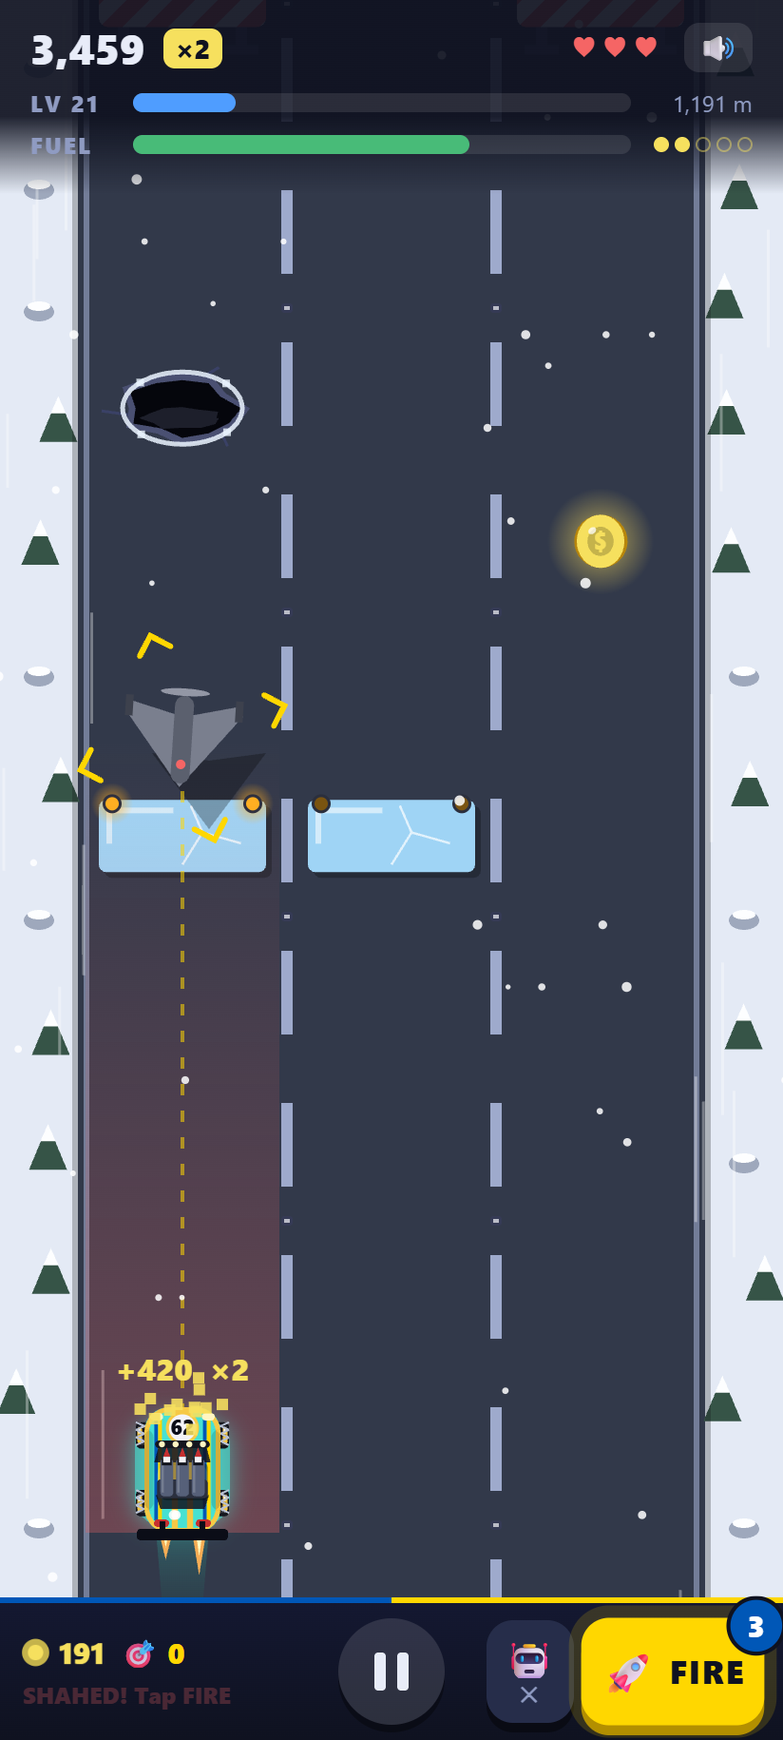
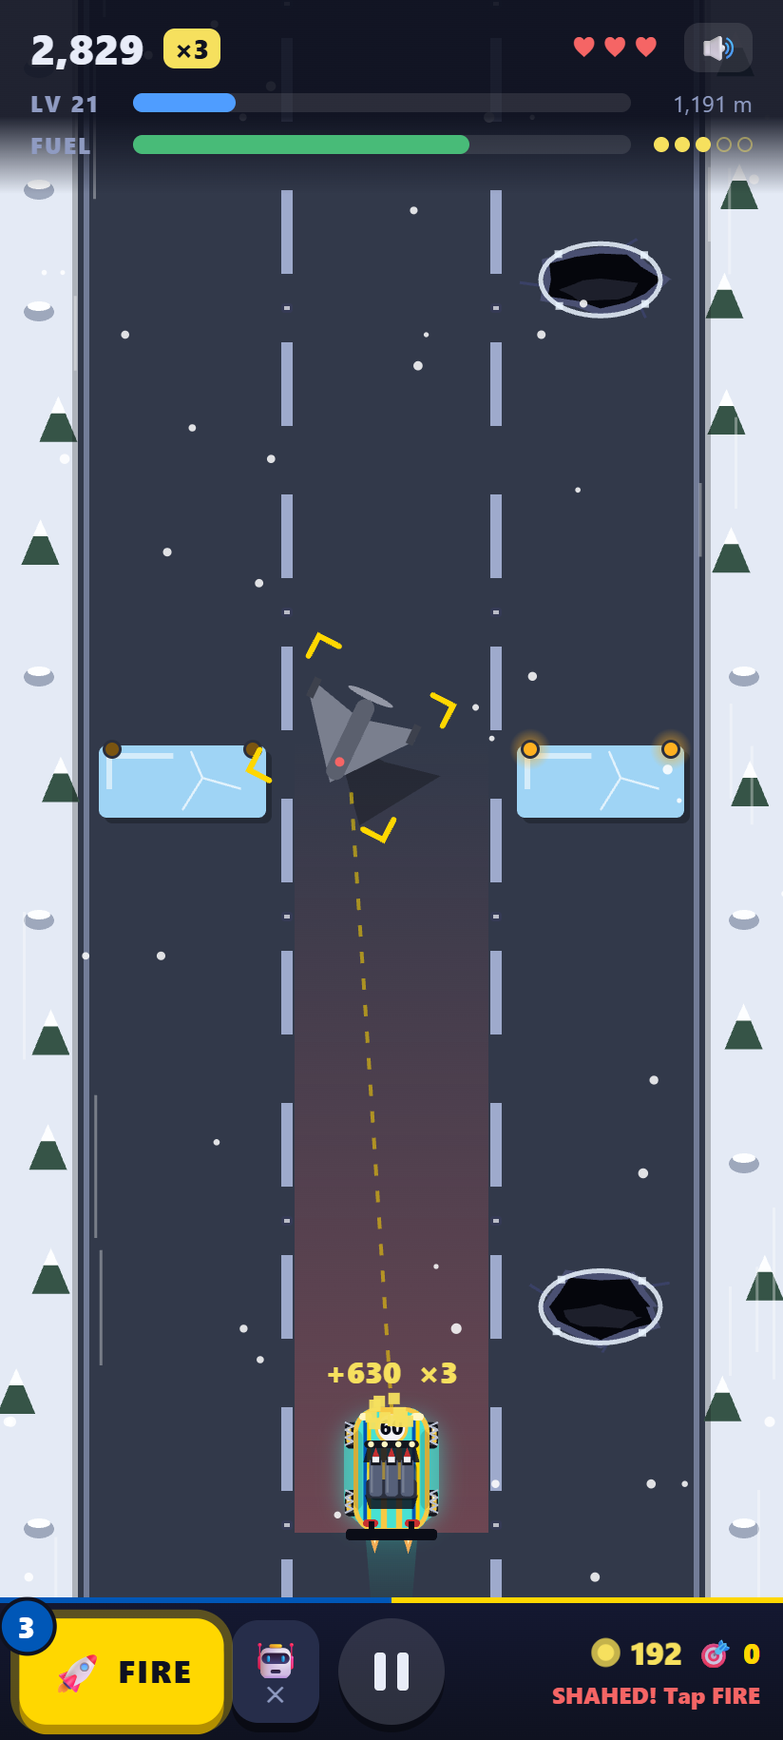
FIRE on the left by default, Settings drop-down in the pause menu
Tester feedback: steering is a tap on the lane, usually with the right
thumb, so FIRE in the bottom right forces one thumb to do both jobs.

- The launch bar mirrors: FIRE is bottom left with the auto-fire block
  beside it, and coin info moves to the right. Pause stays in the centre.
  FIRE now fills its side of the bar instead of shrinking to its label.
- A new "⚙ Settings ▾" drop-down in the pause menu holds:
  - Sound on/off, kept in sync with the speaker icon
  - Auto-fire at Shaheds on/off
  - FIRE button left/right, for left-handed players (saved)
  All three labels are translated into the 12 languages.
- The install screenshots are refreshed to show the new layout.
- Cache version v67.

diff --git a/index.html b/index.html
@@ -109,6 +109,12 @@
   .pauseCard { gap: 18px; max-width: 300px; }
   .pauseCard h1 { font-size: 36px; }
   .autoFireBtn { font-size: 15px; padding: 11px 12px; opacity: .75; }
+  #fireSideBtn { opacity: 1; }
+  .setBtn .caret { display: inline-block; font-style: normal; transition: transform .15s; }
+  .setBtn[aria-expanded="true"] .caret { transform: rotate(180deg); }
+  .setPanel { display: grid; gap: 8px; padding: 10px; margin-top: -4px; border-radius: 14px; background: rgba(255,255,255,.05); }
+  .setPanel[hidden] { display: none; }
+  .setPanel button { font-size: 14px; padding: 10px 10px; }
   .autoFireBtn.on { opacity: 1; box-shadow: 0 6px 0 rgba(0,0,0,.35), inset 0 0 0 2px var(--ua-yellow); }
   /* Shahed drones: rocket counter / fire button */
   /* Launch bar under the road: coin progress on the left, a big fire button on the right */
@@ -130,7 +136,7 @@
   .eggCoins i.on { background: var(--coin); opacity: 1; }
   .eggSub { display: flex; align-items: center; gap: 6px; min-height: 16px; }
   #eggBar.alert .eggCoins { display: none; }          /* the alert takes the whole line */
-  .fireWrap { justify-self: end; position: relative; display: flex; align-items: stretch; gap: 6px; min-width: 0; max-width: 100%; }
+  .fireWrap { justify-self: stretch; position: relative; display: flex; align-items: stretch; gap: 6px; min-width: 0; max-width: 100%; }
   /* first Shahed ever: a bouncing tag pointing down at FIRE, so new players find the button */
   .fireHint {
     position: absolute; right: 4px; bottom: calc(100% + 10px); padding: 6px 12px; border-radius: 10px; white-space: nowrap;
@@ -139,6 +145,14 @@
   }
   .fireHint::after { content: ''; position: absolute; right: 26px; top: 100%; border: 7px solid transparent; border-top-color: var(--ua-yellow); }
   @keyframes hintBounce { to { transform: translateY(-7px); } }
+  /* FIRE on the left (default): steering is a tap on the lane, usually with the right thumb,
+     so the left thumb gets FIRE. The bar mirrors: FIRE far left, auto block inside it, coin info on the right. */
+  #eggBar.fire-left .fireWrap { order: -1; flex-direction: row-reverse; }
+  #eggBar.fire-left .eggInfo { order: 1; justify-items: end; text-align: right; }
+  #eggBar.fire-left .eggTop, #eggBar.fire-left .eggSub { justify-content: flex-end; }
+  #eggBar.fire-left .fireHint { right: auto; left: 4px; }
+  #eggBar.fire-left .fireHint::after { right: auto; left: 26px; }
+  #eggBar.fire-left #rocketBtn b { right: auto; left: -9px; }
   /* auto-fire switch: a block button left of FIRE, same height; shows auto-fire's current accuracy
      (better with a coin streak), or ✕ when off */
   .autoBlock {
@@ -665,7 +679,13 @@
       <div class="overBtns">
         <button id="resumeBtn">▶ <span data-i18n="resume">Resume</span></button>
         <button id="pauseHelp" class="secondary" data-i18n="howToPlay">How to Play</button>
-        <button id="autoFireBtn" class="secondary autoFireBtn" type="button" aria-pressed="false"></button>
+        <!-- Settings drop-down: sound, auto-fire and which side FIRE sits on -->
+        <button id="setBtn" class="secondary setBtn" type="button" aria-expanded="false" aria-controls="setPanel">⚙ <span data-i18n="settings">Settings</span> <i class="caret">▾</i></button>
+        <div id="setPanel" class="setPanel" hidden>
+          <button id="soundBtn" class="secondary autoFireBtn" type="button" aria-pressed="true"></button>
+          <button id="autoFireBtn" class="secondary autoFireBtn" type="button" aria-pressed="false"></button>
+          <button id="fireSideBtn" class="secondary autoFireBtn" type="button"></button>
+        </div>
         <button id="pauseRetry" class="secondary" data-i18n="retry">Retry</button>
         <button id="pauseHome" class="ghost" data-i18n="home">Home</button>
       </div>
@@ -753,7 +773,7 @@ window.I18N = (() => {
       area0: "Wheat fields", area1: "Sunflower fields", area2: "City lights", area3: "Pine forest", area4: "Snowy mountains",
       paused: "Paused", resume: "Resume", pause: "Pause",
       // Shahed drones and rockets
-      shahedBanner: "SHAHED!", shahedSub: "Tap FIRE or the drone · 🚀 = {n} coins", shotDown: "SHOT DOWN!", smashed: "SMASHED!", close: "CLOSE!", missed: "MISS!", autoFireOn: "Auto-fire at Shaheds: On", autoFireOff: "Auto-fire at Shaheds: Off", dodged: "DODGED!", shotDownStat: "Shot down",
+      shahedBanner: "SHAHED!", shahedSub: "Tap FIRE or the drone · 🚀 = {n} coins", shotDown: "SHOT DOWN!", smashed: "SMASHED!", close: "CLOSE!", missed: "MISS!", autoFireOn: "Auto-fire at Shaheds: On", autoFireOff: "Auto-fire at Shaheds: Off", fireSideLeft: "FIRE button: left", fireSideRight: "FIRE button: right", settings: "Settings", soundOn: "Sound: On", soundOff: "Sound: Off", dodged: "DODGED!", shotDownStat: "Shot down",
       rocketTitle: "Rocket: {n} coins (Space)", launch: "FIRE", droneAlert: "SHAHED! Tap FIRE", droneNoRocket: "SHAHED! Dodge!",
       language: 'Language', auto: 'Auto'
     },
@@ -788,7 +808,7 @@ window.I18N = (() => {
       area0: "Campos de trigo", area1: "Campos de girasoles", area2: "Luces de la ciudad", area3: "Bosque de pinos", area4: "Montañas nevadas",
       paused: "En pausa", resume: "Continuar", pause: "Pausa",
       // Shahed drones and rockets
-      shahedBanner: "¡SHAHED!", shahedSub: "Toca DISPARAR o el dron · 🚀 = {n} monedas", shotDown: "¡DERRIBADO!", smashed: "¡DESTROZADA!", close: "¡CASI!", missed: "¡FALLÓ!", autoFireOn: "Disparo automático a Shaheds: Sí", autoFireOff: "Disparo automático a Shaheds: No", dodged: "¡ESQUIVADO!", shotDownStat: "Derribados",
+      shahedBanner: "¡SHAHED!", shahedSub: "Toca DISPARAR o el dron · 🚀 = {n} monedas", shotDown: "¡DERRIBADO!", smashed: "¡DESTROZADA!", close: "¡CASI!", missed: "¡FALLÓ!", autoFireOn: "Disparo automático a Shaheds: Sí", autoFireOff: "Disparo automático a Shaheds: No", fireSideLeft: "Botón DISPARAR: izquierda", fireSideRight: "Botón DISPARAR: derecha", settings: "Ajustes", soundOn: "Sonido: Sí", soundOff: "Sonido: No", dodged: "¡ESQUIVADO!", shotDownStat: "Derribados",
       rocketTitle: "Cohete: {n} monedas (Espacio)", launch: "DISPARAR", droneAlert: "¡SHAHED! Toca DISPARAR", droneNoRocket: "¡SHAHED! ¡Esquívalo!",
       language: 'Idioma', auto: 'Automático'
     },
@@ -823,7 +843,7 @@ window.I18N = (() => {
       area0: "Champs de blé", area1: "Champs de tournesols", area2: "Lumières de la ville", area3: "Forêt de pins", area4: "Montagnes enneigées",
       paused: "Pause", resume: "Reprendre", pause: "Pause",
       // Shahed drones and rockets
-      shahedBanner: `SHAHED${NB}!`, shahedSub: "Touche FEU ou le drone · 🚀 = {n} pièces", shotDown: `ABATTU${NB}!`, smashed: `PULVÉRISÉE${NB}!`, close: `JUSTE${NB}!`, missed: `RATÉ${NB}!`, autoFireOn: `Tir auto sur les Shaheds${NB}: oui`, autoFireOff: `Tir auto sur les Shaheds${NB}: non`, dodged: `ÉVITÉ${NB}!`, shotDownStat: "Abattus",
+      shahedBanner: `SHAHED${NB}!`, shahedSub: "Touche FEU ou le drone · 🚀 = {n} pièces", shotDown: `ABATTU${NB}!`, smashed: `PULVÉRISÉE${NB}!`, close: `JUSTE${NB}!`, missed: `RATÉ${NB}!`, autoFireOn: `Tir auto sur les Shaheds${NB}: oui`, autoFireOff: `Tir auto sur les Shaheds${NB}: non`, fireSideLeft: `Bouton FEU${NB}: à gauche`, fireSideRight: `Bouton FEU${NB}: à droite`, settings: "Réglages", soundOn: `Son${NB}: oui`, soundOff: `Son${NB}: non`, dodged: `ÉVITÉ${NB}!`, shotDownStat: "Abattus",
       rocketTitle: `Roquette${NB}: {n} pièces (Espace)`, launch: "FEU", droneAlert: `SHAHED${NB}! Touche FEU`, droneNoRocket: `SHAHED${NB}! Esquive${NB}!`,
       language: 'Langue', auto: 'Auto'
     },
@@ -858,7 +878,7 @@ window.I18N = (() => {
       area0: "Weizenfelder", area1: "Sonnenblumenfelder", area2: "Lichter der Stadt", area3: "Kiefernwald", area4: "Verschneite Berge",
       paused: "Pausiert", resume: "Weiter", pause: "Pause",
       // Shahed drones and rockets
-      shahedBanner: "SHAHED!", shahedSub: "Tippe FEUER oder die Drohne · 🚀 = {n} Münzen", shotDown: "ABGESCHOSSEN!", smashed: "GESPRENGT!", close: "KNAPP!", missed: "DANEBEN!", autoFireOn: "Auto-Feuer auf Shaheds: An", autoFireOff: "Auto-Feuer auf Shaheds: Aus", dodged: "AUSGEWICHEN!", shotDownStat: "Abgeschossen",
+      shahedBanner: "SHAHED!", shahedSub: "Tippe FEUER oder die Drohne · 🚀 = {n} Münzen", shotDown: "ABGESCHOSSEN!", smashed: "GESPRENGT!", close: "KNAPP!", missed: "DANEBEN!", autoFireOn: "Auto-Feuer auf Shaheds: An", autoFireOff: "Auto-Feuer auf Shaheds: Aus", fireSideLeft: "FEUER-Taste: links", fireSideRight: "FEUER-Taste: rechts", settings: "Einstellungen", soundOn: "Ton: An", soundOff: "Ton: Aus", dodged: "AUSGEWICHEN!", shotDownStat: "Abgeschossen",
       rocketTitle: "Rakete: {n} Münzen (Leertaste)", launch: "FEUER", droneAlert: "SHAHED! Tippe FEUER", droneNoRocket: "SHAHED! Ausweichen!",
       language: 'Sprache', auto: 'Automatisch'
     },
@@ -893,7 +913,7 @@ window.I18N = (() => {
       area0: "Campos de trigo", area1: "Campos de girassóis", area2: "Luzes da cidade", area3: "Floresta de pinheiros", area4: "Montanhas nevadas",
       paused: "Pausado", resume: "Continuar", pause: "Pausar",
       // Shahed drones and rockets
-      shahedBanner: "SHAHED!", shahedSub: "Toque em DISPARAR ou no drone · 🚀 = {n} moedas", shotDown: "ABATIDO!", smashed: "DESTRUÍDA!", close: "POR POUCO!", missed: "ERROU!", autoFireOn: "Disparo automático nos Shaheds: Ligado", autoFireOff: "Disparo automático nos Shaheds: Desligado", dodged: "DESVIOU!", shotDownStat: "Abatidos",
+      shahedBanner: "SHAHED!", shahedSub: "Toque em DISPARAR ou no drone · 🚀 = {n} moedas", shotDown: "ABATIDO!", smashed: "DESTRUÍDA!", close: "POR POUCO!", missed: "ERROU!", autoFireOn: "Disparo automático nos Shaheds: Ligado", autoFireOff: "Disparo automático nos Shaheds: Desligado", fireSideLeft: "Botão DISPARAR: esquerda", fireSideRight: "Botão DISPARAR: direita", settings: "Configurações", soundOn: "Som: Ligado", soundOff: "Som: Desligado", dodged: "DESVIOU!", shotDownStat: "Abatidos",
       rocketTitle: "Foguete: {n} moedas (Espaço)", launch: "DISPARAR", droneAlert: "SHAHED! Toque em DISPARAR", droneNoRocket: "SHAHED! Desvie!",
       language: 'Idioma', auto: 'Automático'
     },
@@ -928,7 +948,7 @@ window.I18N = (() => {
       area0: "Campi di grano", area1: "Campi di girasoli", area2: "Luci della città", area3: "Pineta", area4: "Montagne innevate",
       paused: "In pausa", resume: "Riprendi", pause: "Pausa",
       // Shahed drones and rockets
-      shahedBanner: "SHAHED!", shahedSub: "Tocca FUOCO o il drone · 🚀 = {n} monete", shotDown: "ABBATTUTO!", smashed: "DISTRUTTA!", close: "PER UN PELO!", missed: "MANCATO!", autoFireOn: "Fuoco automatico sugli Shahed: Sì", autoFireOff: "Fuoco automatico sugli Shahed: No", dodged: "SCHIVATO!", shotDownStat: "Abbattuti",
+      shahedBanner: "SHAHED!", shahedSub: "Tocca FUOCO o il drone · 🚀 = {n} monete", shotDown: "ABBATTUTO!", smashed: "DISTRUTTA!", close: "PER UN PELO!", missed: "MANCATO!", autoFireOn: "Fuoco automatico sugli Shahed: Sì", autoFireOff: "Fuoco automatico sugli Shahed: No", fireSideLeft: "Tasto FUOCO: a sinistra", fireSideRight: "Tasto FUOCO: a destra", settings: "Impostazioni", soundOn: "Audio: Sì", soundOff: "Audio: No", dodged: "SCHIVATO!", shotDownStat: "Abbattuti",
       rocketTitle: "Razzo: {n} monete (Spazio)", launch: "FUOCO", droneAlert: "SHAHED! Tocca FUOCO", droneNoRocket: "SHAHED! Schivalo!",
       language: 'Lingua', auto: 'Automatica'
     },
@@ -963,7 +983,7 @@ window.I18N = (() => {
       area0: "小麦畑", area1: "ひまわり畑", area2: "街の灯り", area3: "松の森", area4: "雪山",
       paused: "一時停止中", resume: "再開", pause: "一時停止",
       // Shahed drones and rockets
-      shahedBanner: "シャヘド！", shahedSub: "「発射」かドローンをタップ · 🚀 = コイン{n}枚", shotDown: "撃墜！", smashed: "粉砕！", close: "ギリギリ！", missed: "ミス！", autoFireOn: "シャヘド自動発射：オン", autoFireOff: "シャヘド自動発射：オフ", dodged: "回避！", shotDownStat: "撃墜",
+      shahedBanner: "シャヘド！", shahedSub: "「発射」かドローンをタップ · 🚀 = コイン{n}枚", shotDown: "撃墜！", smashed: "粉砕！", close: "ギリギリ！", missed: "ミス！", autoFireOn: "シャヘド自動発射：オン", autoFireOff: "シャヘド自動発射：オフ", fireSideLeft: "発射ボタン：左", fireSideRight: "発射ボタン：右", settings: "設定", soundOn: "サウンド：オン", soundOff: "サウンド：オフ", dodged: "回避！", shotDownStat: "撃墜",
       rocketTitle: "ロケット：コイン{n}枚（スペース）", launch: "発射", droneAlert: "シャヘド！「発射」をタップ", droneNoRocket: "シャヘド！よけろ！",
       language: '言語', auto: '自動'
     },
@@ -998,7 +1018,7 @@ window.I18N = (() => {
       area0: "麦田", area1: "向日葵田", area2: "城市灯火", area3: "松林", area4: "雪山",
       paused: "已暂停", resume: "继续", pause: "暂停",
       // Shahed drones and rockets
-      shahedBanner: "沙赫德！", shahedSub: "点「发射」或无人机 · 🚀 = {n} 枚金币", shotDown: "击落！", smashed: "炸毁！", close: "好险！", missed: "没打中！", autoFireOn: "自动射击沙赫德：开", autoFireOff: "自动射击沙赫德：关", dodged: "躲开了！", shotDownStat: "击落",
+      shahedBanner: "沙赫德！", shahedSub: "点「发射」或无人机 · 🚀 = {n} 枚金币", shotDown: "击落！", smashed: "炸毁！", close: "好险！", missed: "没打中！", autoFireOn: "自动射击沙赫德：开", autoFireOff: "自动射击沙赫德：关", fireSideLeft: "发射按钮：左侧", fireSideRight: "发射按钮：右侧", settings: "设置", soundOn: "声音：开", soundOff: "声音：关", dodged: "躲开了！", shotDownStat: "击落",
       rocketTitle: "火箭：{n} 枚金币（空格键）", launch: "发射", droneAlert: "沙赫德！点「发射」", droneNoRocket: "沙赫德！快躲开！",
       language: '语言', auto: '自动'
     },
@@ -1033,7 +1053,7 @@ window.I18N = (() => {
       area0: "밀밭", area1: "해바라기 밭", area2: "도시의 불빛", area3: "소나무 숲", area4: "설산",
       paused: "일시 정지", resume: "계속하기", pause: "일시 정지",
       // Shahed drones and rockets
-      shahedBanner: "샤헤드!", shahedSub: "발사 또는 드론을 탭 · 🚀 = 코인 {n}개", shotDown: "격추!", smashed: "파괴!", close: "아슬아슬!", missed: "빗나감!", autoFireOn: "샤헤드 자동 발사: 켜짐", autoFireOff: "샤헤드 자동 발사: 꺼짐", dodged: "회피!", shotDownStat: "격추",
+      shahedBanner: "샤헤드!", shahedSub: "발사 또는 드론을 탭 · 🚀 = 코인 {n}개", shotDown: "격추!", smashed: "파괴!", close: "아슬아슬!", missed: "빗나감!", autoFireOn: "샤헤드 자동 발사: 켜짐", autoFireOff: "샤헤드 자동 발사: 꺼짐", fireSideLeft: "발사 버튼: 왼쪽", fireSideRight: "발사 버튼: 오른쪽", settings: "설정", soundOn: "소리: 켜짐", soundOff: "소리: 꺼짐", dodged: "회피!", shotDownStat: "격추",
       rocketTitle: "로켓: 코인 {n}개 (스페이스)", launch: "발사", droneAlert: "샤헤드! 발사를 탭", droneNoRocket: "샤헤드! 피하세요!",
       language: '언어', auto: '자동'
     },
@@ -1068,7 +1088,7 @@ window.I18N = (() => {
       area0: "गेहूँ के खेत", area1: "सूरजमुखी के खेत", area2: "शहर की रोशनी", area3: "चीड़ का जंगल", area4: "बर्फ़ीले पहाड़",
       paused: "रुका हुआ", resume: "जारी रखें", pause: "रोकें",
       // Shahed drones and rockets
-      shahedBanner: "शाहेद!", shahedSub: "फ़ायर या ड्रोन पर टैप करें · 🚀 = {n} सिक्के", shotDown: "मार गिराया!", smashed: "तोड़ दिया!", close: "बाल-बाल!", missed: "चूक गया!", autoFireOn: "शाहेद पर ऑटो-फ़ायर: चालू", autoFireOff: "शाहेद पर ऑटो-फ़ायर: बंद", dodged: "बच निकले!", shotDownStat: "मार गिराए",
+      shahedBanner: "शाहेद!", shahedSub: "फ़ायर या ड्रोन पर टैप करें · 🚀 = {n} सिक्के", shotDown: "मार गिराया!", smashed: "तोड़ दिया!", close: "बाल-बाल!", missed: "चूक गया!", autoFireOn: "शाहेद पर ऑटो-फ़ायर: चालू", autoFireOff: "शाहेद पर ऑटो-फ़ायर: बंद", fireSideLeft: "फ़ायर बटन: बाएँ", fireSideRight: "फ़ायर बटन: दाएँ", settings: "सेटिंग्स", soundOn: "आवाज़: चालू", soundOff: "आवाज़: बंद", dodged: "बच निकले!", shotDownStat: "मार गिराए",
       rocketTitle: "रॉकेट: {n} सिक्के (स्पेस)", launch: "फ़ायर", droneAlert: "शाहेद! फ़ायर दबाएँ", droneNoRocket: "शाहेद! बचो!",
       language: 'भाषा', auto: 'स्वचालित'
     },
@@ -1104,7 +1124,7 @@ window.I18N = (() => {
       paused: "Пауза", resume: "Продовжити", pause: "Пауза",
       // Shahed drones and rockets bought with coins
       shahedBanner: 'ШАХЕД!', shahedSub: 'Тисни ПУСК або на нього · 🚀 = {n} монети',
-      shotDown: 'ЗБИТО!', smashed: "РОЗБИТО!", close: "НА ВОЛОСИНІ!", missed: "ПРОМАХ!", autoFireOn: "Автопуск по шахедах: Увімк.", autoFireOff: "Автопуск по шахедах: Вимк.", dodged: 'УХИЛИВСЯ!', shotDownStat: 'Збито', rocketTitle: 'Ракета: {n} монети (пробіл)',
+      shotDown: 'ЗБИТО!', smashed: "РОЗБИТО!", close: "НА ВОЛОСИНІ!", missed: "ПРОМАХ!", autoFireOn: "Автопуск по шахедах: Увімк.", autoFireOff: "Автопуск по шахедах: Вимк.", fireSideLeft: "Кнопка ПУСК: ліворуч", fireSideRight: "Кнопка ПУСК: праворуч", settings: "Налаштування", soundOn: "Звук: Увімк.", soundOff: "Звук: Вимк.", dodged: 'УХИЛИВСЯ!', shotDownStat: 'Збито', rocketTitle: 'Ракета: {n} монети (пробіл)',
       launch: 'ПУСК', droneAlert: 'ШАХЕД! Тисни ПУСК',
       droneNoRocket: 'ШАХЕД! Ухиляйся!',
       language: 'Мова', auto: 'Авто'
@@ -1140,7 +1160,7 @@ window.I18N = (() => {
       area0: "ხორბლის ველები", area1: "მზესუმზირის ველები", area2: "ქალაქის შუქები", area3: "ფიჭვნარი", area4: "თოვლიანი მთები",
       paused: "პაუზა", resume: "გაგრძელება", pause: "პაუზა",
       // Shahed drones and rockets
-      shahedBanner: "შაჰედი!", shahedSub: "შეეხე გასროლას ან დრონს · 🚀 = {n} მონეტა", shotDown: "ჩამოგდებულია!", smashed: "დაიმსხვრა!", close: "ძლივს!", missed: "აცდა!", autoFireOn: "შაჰედებზე ავტოგასროლა: ჩართ.", autoFireOff: "შაჰედებზე ავტოგასროლა: გამორთ.", dodged: "აიცილე!", shotDownStat: "ჩამოგდებული",
+      shahedBanner: "შაჰედი!", shahedSub: "შეეხე გასროლას ან დრონს · 🚀 = {n} მონეტა", shotDown: "ჩამოგდებულია!", smashed: "დაიმსხვრა!", close: "ძლივს!", missed: "აცდა!", autoFireOn: "შაჰედებზე ავტოგასროლა: ჩართ.", autoFireOff: "შაჰედებზე ავტოგასროლა: გამორთ.", fireSideLeft: "გასროლის ღილაკი: მარცხნივ", fireSideRight: "გასროლის ღილაკი: მარჯვნივ", settings: "პარამეტრები", soundOn: "ხმა: ჩართ.", soundOff: "ხმა: გამორთ.", dodged: "აიცილე!", shotDownStat: "ჩამოგდებული",
       rocketTitle: "რაკეტა: {n} მონეტა (Space)", launch: "გასროლა", droneAlert: "შაჰედი! შეეხე გასროლას", droneNoRocket: "შაჰედი! აიცილე!",
       language: 'ენა', auto: 'ავტო'
     }
@@ -3339,7 +3359,11 @@ window.LD_RULES = (() => {
   function paintMute() {
     muteBtn.textContent = sfx.muted ? '🔇' : '🔊';
     muteBtn.setAttribute('aria-label', t(sfx.muted ? 'unmute' : 'mute'));
+    const sb = $('soundBtn');
+    sb.textContent = (sfx.muted ? '🔇 ' : '🔊 ') + t(sfx.muted ? 'soundOff' : 'soundOn');
+    sb.setAttribute('aria-pressed', String(!sfx.muted)); sb.classList.toggle('on', !sfx.muted);
   }
+  I18N.onChange(paintMute);
   function toggleMute() { sfx.ensure(); sfx.toggle(); paintMute(); muteBtn.blur(); }
   muteBtn.addEventListener('click', toggleMute);
   window.addEventListener('keydown', e => { if (e.key === 'm' || e.key === 'M') toggleMute(); });
@@ -3359,7 +3383,7 @@ window.LD_RULES = (() => {
   $('pauseHelp').addEventListener('click', () => openHelp('pause'));
   const autoFireBtn = $('autoFireBtn');
   function paintAutoFire() {
-    autoFireBtn.textContent = '🚀 ' + t(autoFire ? 'autoFireOn' : 'autoFireOff');
+    autoFireBtn.textContent = '🤖 ' + t(autoFire ? 'autoFireOn' : 'autoFireOff');
     autoFireBtn.setAttribute('aria-pressed', String(autoFire));
     autoFireBtn.classList.toggle('on', autoFire);
     autoChip.title = autoFireBtn.textContent; autoChip.setAttribute('aria-label', autoFireBtn.textContent);
@@ -3370,6 +3394,27 @@ window.LD_RULES = (() => {
     paintAutoFire(); updateHud();
   }
   autoFireBtn.addEventListener('click', toggleAutoFire);
+  // Settings drop-down in the pause menu
+  const setBtn = $('setBtn'), setPanel = $('setPanel'), soundBtn = $('soundBtn');
+  setBtn.addEventListener('click', () => {
+    setPanel.hidden = !setPanel.hidden;
+    setBtn.setAttribute('aria-expanded', String(!setPanel.hidden));
+  });
+  soundBtn.addEventListener('click', () => toggleMute());
+  // Which side FIRE sits on. Left by default (the right thumb steers); left-handed players can swap.
+  const fireSideBtn = $('fireSideBtn');
+  let fireLeft = (() => { try { return localStorage.getItem('laneDodgerFireSide') !== 'right'; } catch { return true; } })();
+  function paintFireSide() {
+    eggBar.classList.toggle('fire-left', fireLeft);
+    fireSideBtn.textContent = '🚀 ' + t(fireLeft ? 'fireSideLeft' : 'fireSideRight');
+  }
+  fireSideBtn.addEventListener('click', () => {
+    fireLeft = !fireLeft;
+    try { localStorage.setItem('laneDodgerFireSide', fireLeft ? 'left' : 'right'); } catch {}
+    paintFireSide(); fitFire();
+  });
+  I18N.onChange(paintFireSide);
+  paintFireSide();
   autoChip.addEventListener('click', () => { toggleAutoFire(); autoChip.blur(); });
   I18N.onChange(paintAutoFire);
   paintAutoFire();

diff --git a/sw.js b/sw.js
@@ -1,6 +1,6 @@
 // Offline support: cache the game shell, serve it cache-first, refresh in the background.
 // Bump VERSION whenever you want installed copies to drop the old cache.
-const VERSION = 'drone-dash-v66';
+const VERSION = 'drone-dash-v67';
 const ASSETS = [
   './',
   './index.html',
